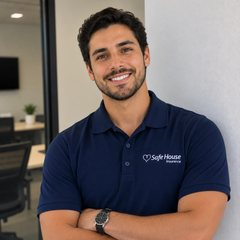
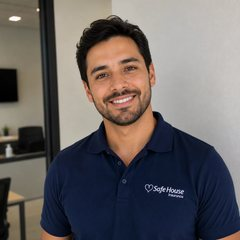
feat: reviews mosaic; swap the third agent portrait
Reviews moved from three equal cards to a mosaic like the reference: a
centred heading with three trust chips (5.0 on Google, licensed in TX & NM,
bilingual), then five cards mixing white, tinted and one full navy that
spans two columns. Three across on desktop, stacked on phones, with no
holes in the grid at any width. A "Read all our Google reviews" link closes
it out.

Video reviews are wired but not populated: .rvid is a poster card with a
play button and a name caption, and there is a commented example in the
markup — drop one in with a --poster and it slots into the mosaic. Add
.wide or .tall to make it span.

Third agent portrait replaced with the new photo.

NOTE — every review quote in this section is placeholder text, including
the two new ones. They are attributed to named people and labelled "Google
review", so they must be replaced with real review text before this page
goes live.

Verified at 360x740, 411x923, 1280x720, 1440x900 and 1920x1080: five cards,
one column on phones and two full rows on desktop with no gaps, nothing
escapes the grid, all five portraits load and stay in sync with their
thumbnails, no overflow, no JS errors.

Claude-Session: https://claude.ai/code/session_0132xx39ziYCSm2JpPGqktje

diff --git a/index.html b/index.html
@@ -292,6 +292,47 @@
   .agnote{font-size:12.5px;color:var(--muted);font-weight:600;margin-top:14px}
   .agnote a{color:var(--blue-d);font-weight:700}
 
+  /* ================= REVIEWS MOSAIC =================
+     Two card types share one grid: .rq for a written review and .rvid for a video
+     one. Add a .rvid with a --poster and it drops into the mosaic; give it .wide
+     or .tall to make it span. */
+  .rhead{text-align:center;max-width:640px;margin:0 auto}
+  .rbadge{display:flex;flex-wrap:wrap;justify-content:center;gap:9px;margin-top:18px}
+  .rbadge span{background:#fff;border:1px solid var(--line);border-radius:16px;padding:10px 15px;text-align:center}
+  .rbadge b{display:block;font-size:16px;font-weight:900;color:var(--navy);line-height:1.1}
+  .rbadge i{display:block;color:#F0A82C;font-size:11px;letter-spacing:1px;font-style:normal;margin-top:2px}
+  .rbadge small{display:block;font-size:11.5px;color:var(--muted);font-weight:600;margin-top:2px}
+
+  .rgrid{display:grid;grid-template-columns:1fr;gap:12px;margin-top:26px}
+  .rq{background:#fff;border:1px solid var(--line);border-radius:20px;padding:20px;
+      display:flex;flex-direction:column;box-shadow:0 18px 34px -30px rgba(10,33,72,.5)}
+  .rq .s{color:#F0A82C;letter-spacing:2px;font-size:13px;font-style:normal}
+  .rq p{font-size:16px;line-height:1.45;font-weight:600;color:#26334a;margin-top:10px;flex:1}
+  .rq footer{margin-top:14px}
+  .rq footer b{display:block;font-size:14px;font-weight:800;color:var(--navy);letter-spacing:.04em;text-transform:uppercase}
+  .rq footer span{display:block;font-size:12px;color:var(--muted);font-weight:600;margin-top:2px}
+  .rq.tint{background:var(--ice);border-color:#DCE7F8}
+  .rq.dark{background:var(--navy);border-color:var(--navy);color:#fff}
+  .rq.dark p{color:#fff}
+  .rq.dark footer b{color:#fff}
+  .rq.dark footer span{color:#9fb8dd}
+
+  /* video review card — poster + play button, ready for when the clips land */
+  .rvid{position:relative;border-radius:20px;overflow:hidden;min-height:260px;isolation:isolate;
+      background:var(--navy2) var(--poster,none) center/cover no-repeat;display:flex;align-items:flex-end;padding:16px}
+  .rvid::after{content:"";position:absolute;inset:0;z-index:-1;
+      background:linear-gradient(180deg,rgba(8,5,2,.10) 40%,rgba(8,5,2,.78) 100%)}
+  .rvid .play{position:absolute;left:50%;top:50%;transform:translate(-50%,-50%);width:54px;height:54px;
+      border-radius:99px;border:none;background:rgba(255,255,255,.92);color:var(--blue-d);cursor:pointer;
+      display:grid;place-items:center;box-shadow:0 14px 28px -12px rgba(0,0,0,.6)}
+  .rvid .play svg{width:22px;height:22px;stroke-width:2.4}
+  .rvid figcaption b{display:block;color:#fff;font-size:14px;font-weight:900;letter-spacing:.05em;text-transform:uppercase}
+  .rvid figcaption span{display:block;color:rgba(255,255,255,.8);font-size:12px;font-weight:600;margin-top:1px}
+
+  .rmore{display:flex;align-items:center;justify-content:center;gap:8px;margin-top:22px;
+      font-size:14.5px;font-weight:800;color:var(--blue-d)}
+  .rmore:hover{color:var(--blue)}
+
   /* ================= SECTIONS ================= */
   section{padding:56px 0}
   .kick{display:inline-flex;align-items:center;gap:8px;font-family:'Geist Mono',monospace;font-size:10.5px;font-weight:600;
@@ -335,14 +376,6 @@
   .wc b{display:block;font-size:16.5px;font-weight:800;color:var(--navy);margin-top:12px}
   .wc p{font-size:14.5px;color:var(--muted);margin-top:5px;font-weight:500}
 
-  .revs{margin-top:20px}
-  .rw{background:#fff;border:2px solid var(--line);border-radius:20px;padding:20px;margin-top:11px}
-  .rw .s{color:#F0A82C;letter-spacing:2px;font-size:13.5px}
-  .rw p{font-size:15.5px;margin-top:9px;font-weight:500;color:#2b3849}
-  .rw .who{display:flex;align-items:center;gap:10px;margin-top:14px}
-  .rw .av{width:34px;height:34px;border-radius:11px;background:var(--grad);color:#fff;display:grid;place-items:center;font-weight:900;font-size:14px}
-  .rw .who b{font-size:14px;color:var(--navy);display:block}
-  .rw .who span{font-size:11.5px;color:var(--muted)}
 
   .bil{background:var(--grad);color:#fff;padding:44px 0;text-align:center;position:relative;overflow:hidden}
   .bil .pat{position:absolute;inset:0;opacity:.09;background-image:url("assets/safehouse-heart.png");background-size:80px;filter:brightness(0) invert(1)}
@@ -468,8 +501,13 @@
     .cc{flex-direction:column;align-items:flex-start;min-height:200px}
     .cc .go{margin-left:0;margin-top:auto}
     .wg{grid-template-columns:repeat(3,1fr);gap:14px}
-    .revs{display:grid;grid-template-columns:repeat(3,1fr);gap:14px;margin-top:34px}
-    .rw{margin-top:0}
+    .rgrid{grid-template-columns:repeat(3,1fr);gap:16px;margin-top:34px}
+    .rq{padding:24px}
+    .rq p{font-size:17.5px}
+    .rq.wide{grid-column:span 2}
+    .rvid.tall{grid-row:span 2}
+    .rbadge{gap:12px}
+    .rbadge b{font-size:18px}
     .qs .in{display:grid;grid-template-columns:1fr 1fr;gap:50px;align-items:center}
     .card{margin-top:0}
     .card .g3{display:grid;grid-template-columns:1fr 1fr;gap:10px}
@@ -784,16 +822,59 @@
 
 <!-- reviews -->
 <section id="reviews"><div class="wrap">
-  <div class="rv">
+  <div class="rv rhead">
     <span class="kick"><img src="assets/safehouse-heart.png" alt=""> Reviews</span>
-    <h2>What our clients say.</h2>
+    <h2>El Paso trusts Safe House.</h2>
     <p class="sl">Verified reviews from clients across El Paso and southern New Mexico.</p>
+    <div class="rbadge">
+      <span><b>5.0</b><i aria-hidden="true">&#9733;&#9733;&#9733;&#9733;&#9733;</i><small>on Google</small></span>
+      <span><b>TX &amp; NM</b><small>Licensed in both</small></span>
+      <span><b>Español</b><small>Bilingual team</small></span>
+    </div>
   </div>
-  <div class="revs">
-    <div class="rw rv"><div class="s" aria-hidden="true">★★★★★</div><p>"They took the time to explain my coverage instead of just selling me something."</p><div class="who"><span class="av">M</span><span><b>Marcos T.</b><span>El Paso, TX · Google review</span></span></div></div>
-    <div class="rw rv"><div class="s" aria-hidden="true">★★★★★</div><p>"They found me coverage even with an SR-22, and a real person explained everything in Spanish."</p><div class="who"><span class="av">J</span><span><b>Jazmín R.</b><span>Las Cruces, NM · Google review</span></span></div></div>
-    <div class="rw rv"><div class="s" aria-hidden="true">★★★★★</div><p>"Insured my truck and my house with one call. Professional, and they follow up."</p><div class="who"><span class="av">D</span><span><b>Diego M.</b><span>El Paso, TX · Google review</span></span></div></div>
+
+  <!-- MOSAIC. Two card types:
+       .rq  a written review
+       .rvid a video review — drop one in with a poster image and it slots straight
+             into the grid:
+       <figure class="rvid" style="--poster:url('assets/review-1.jpg')">
+         <button class="play" aria-label="Play review"><svg class="i"><use href="#ar"/></svg></button>
+         <figcaption><b>Name</b><span>Safe House customer</span></figcaption>
+       </figure>                                                                    -->
+  <div class="rgrid">
+    <blockquote class="rq rv">
+      <i class="s" aria-hidden="true">&#9733;&#9733;&#9733;&#9733;&#9733;</i>
+      <p>&ldquo;They took the time to explain my coverage instead of just selling me something.&rdquo;</p>
+      <footer><b>Marcos T.</b><span>El Paso, TX &middot; Google review</span></footer>
+    </blockquote>
+
+    <blockquote class="rq rv tint">
+      <i class="s" aria-hidden="true">&#9733;&#9733;&#9733;&#9733;&#9733;</i>
+      <p>&ldquo;They found me coverage even with an SR-22, and a real person explained everything in Spanish.&rdquo;</p>
+      <footer><b>Jazm&iacute;n R.</b><span>Las Cruces, NM &middot; Google review</span></footer>
+    </blockquote>
+
+    <blockquote class="rq rv">
+      <i class="s" aria-hidden="true">&#9733;&#9733;&#9733;&#9733;&#9733;</i>
+      <p>&ldquo;Insured my truck and my house with one call. Professional, and they follow up.&rdquo;</p>
+      <footer><b>Diego M.</b><span>El Paso, TX &middot; Google review</span></footer>
+    </blockquote>
+
+    <blockquote class="rq rv dark wide">
+      <i class="s" aria-hidden="true">&#9733;&#9733;&#9733;&#9733;&#9733;</i>
+      <p>&ldquo;Se tomaron el tiempo de explicarme todo en espa&ntilde;ol, sin prisa y sin presi&oacute;n.&rdquo;</p>
+      <footer><b>Rosa V.</b><span>El Paso, TX &middot; Google review</span></footer>
+    </blockquote>
+
+    <blockquote class="rq rv">
+      <i class="s" aria-hidden="true">&#9733;&#9733;&#9733;&#9733;&#9733;</i>
+      <p>&ldquo;My renewal went up, they re-shopped it and called me back the same week.&rdquo;</p>
+      <footer><b>Andr&eacute;s L.</b><span>El Paso, TX &middot; Google review</span></footer>
+    </blockquote>
   </div>
+
+  <a class="rmore" href="https://www.google.com/search?q=Safe+House+Insurance+El+Paso" target="_blank" rel="noopener">
+    Read all our Google reviews <svg class="i"><use href="#ar"/></svg></a>
 </div></section>
 
 <!-- bilingual -->
